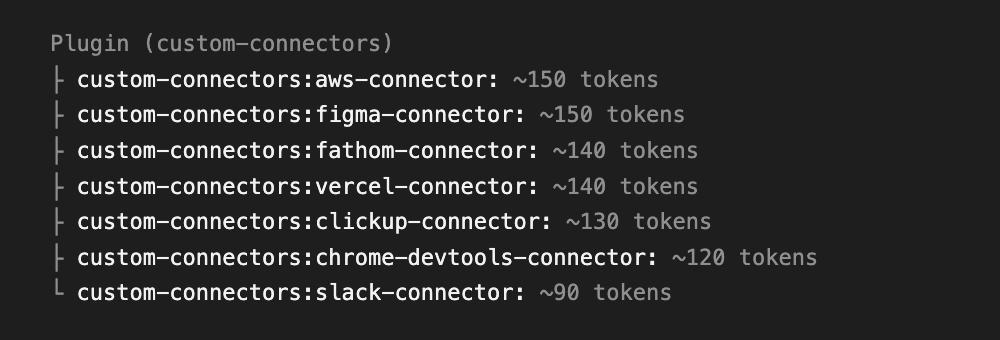
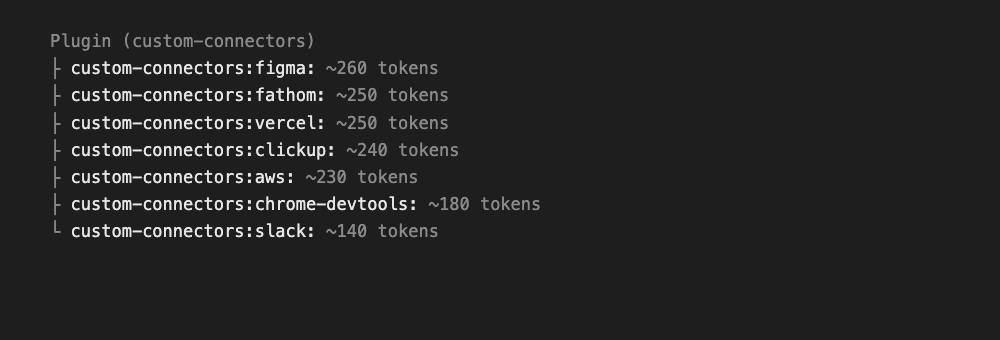
README: re-measure token numbers and redo screenshots for the new skill names
The wider descriptions from v1.1.7 (catching API questions) grew each skill's
always-on cost, so the after total is ~1.3k (0.13%), not ~770 (0.077%).

diff --git a/README.md b/README.md
@@ -64,27 +64,27 @@ You don't need this if you've disabled the MCPs with `/mcp`.
 loads one line until you ask for that app.
 
 <table>
-<tr><th>Before: 6 MCPs, ~239.8k tokens (24.0%)</th><th>After: 7 connectors, ~915 tokens (0.09%)</th></tr>
+<tr><th>Before: 6 MCPs, ~239.8k tokens (24.0%)</th><th>After: 7 connectors, ~1.5k tokens (0.15%)</th></tr>
 <tr><td><img src="docs/before-mcps.png" alt="Before: MCP tool tokens per server in /context"></td>
 <td><img src="docs/after-connectors.png" alt="After: connector skill tokens in /context"></td></tr>
 </table>
 
-![MCP tools vs custom connectors: 239.8k tokens (24.0%) down to ~770 (0.077%)](docs/mcp-vs-connectors.png)
+![MCP tools vs custom connectors: 239.8k tokens (24.0%) down to ~1.3k (0.13%)](docs/mcp-vs-connectors.png)
 
 | App | MCP tools | **Before**: MCP tokens | of 1M | **After**: connector tokens | of 1M |
 |---|---|---|---|---|---|
-| Vercel | 244 | 166.0k | **16.6%** | ~140 | **0.014%** |
-| Figma | 40 | 24.5k | **2.5%** | ~150 | **0.015%** |
-| ClickUp | 61 | 23.3k | **2.3%** | ~130 | **0.013%** |
-| Slack | 19 | 16.2k | **1.6%** | ~90 | **0.009%** |
-| Chrome DevTools | 27 | 7.0k | **0.7%** | ~120 | **0.012%** |
-| Fathom | 9 | 2.8k | **0.3%** | ~140 | **0.014%** |
-| **Total** | **400** | **239.8k** | **24.0%** | **~770** | **0.077%** |
+| Vercel | 244 | 166.0k | **16.6%** | ~250 | **0.025%** |
+| Figma | 40 | 24.5k | **2.5%** | ~260 | **0.026%** |
+| ClickUp | 61 | 23.3k | **2.3%** | ~240 | **0.024%** |
+| Slack | 19 | 16.2k | **1.6%** | ~140 | **0.014%** |
+| Chrome DevTools | 27 | 7.0k | **0.7%** | ~180 | **0.018%** |
+| Fathom | 9 | 2.8k | **0.3%** | ~250 | **0.025%** |
+| **Total** | **400** | **239.8k** | **24.0%** | **~1.3k** | **0.13%** |
 
-**Before 24.0% → after 0.077% of a 1M context, about 311× smaller.** All numbers are measured:
+**Before 24.0% → after 0.13% of a 1M context, about 184× smaller.** All numbers are measured:
 "before" is each MCP's tools added up from Claude Code's `/context`, "after" is from
-`claude plugin details`. The AWS connector adds ~150 more (there's no AWS MCP to compare), for ~915
-total, and using a connector adds 1k–2k for that session only.
+`claude plugin details`. The AWS connector adds ~230 more (there's no AWS MCP to compare), for ~1.5k
+total, and using a connector adds 3k–5k for that session only.
 
 Run `/context` before and after to see your own numbers.
 
